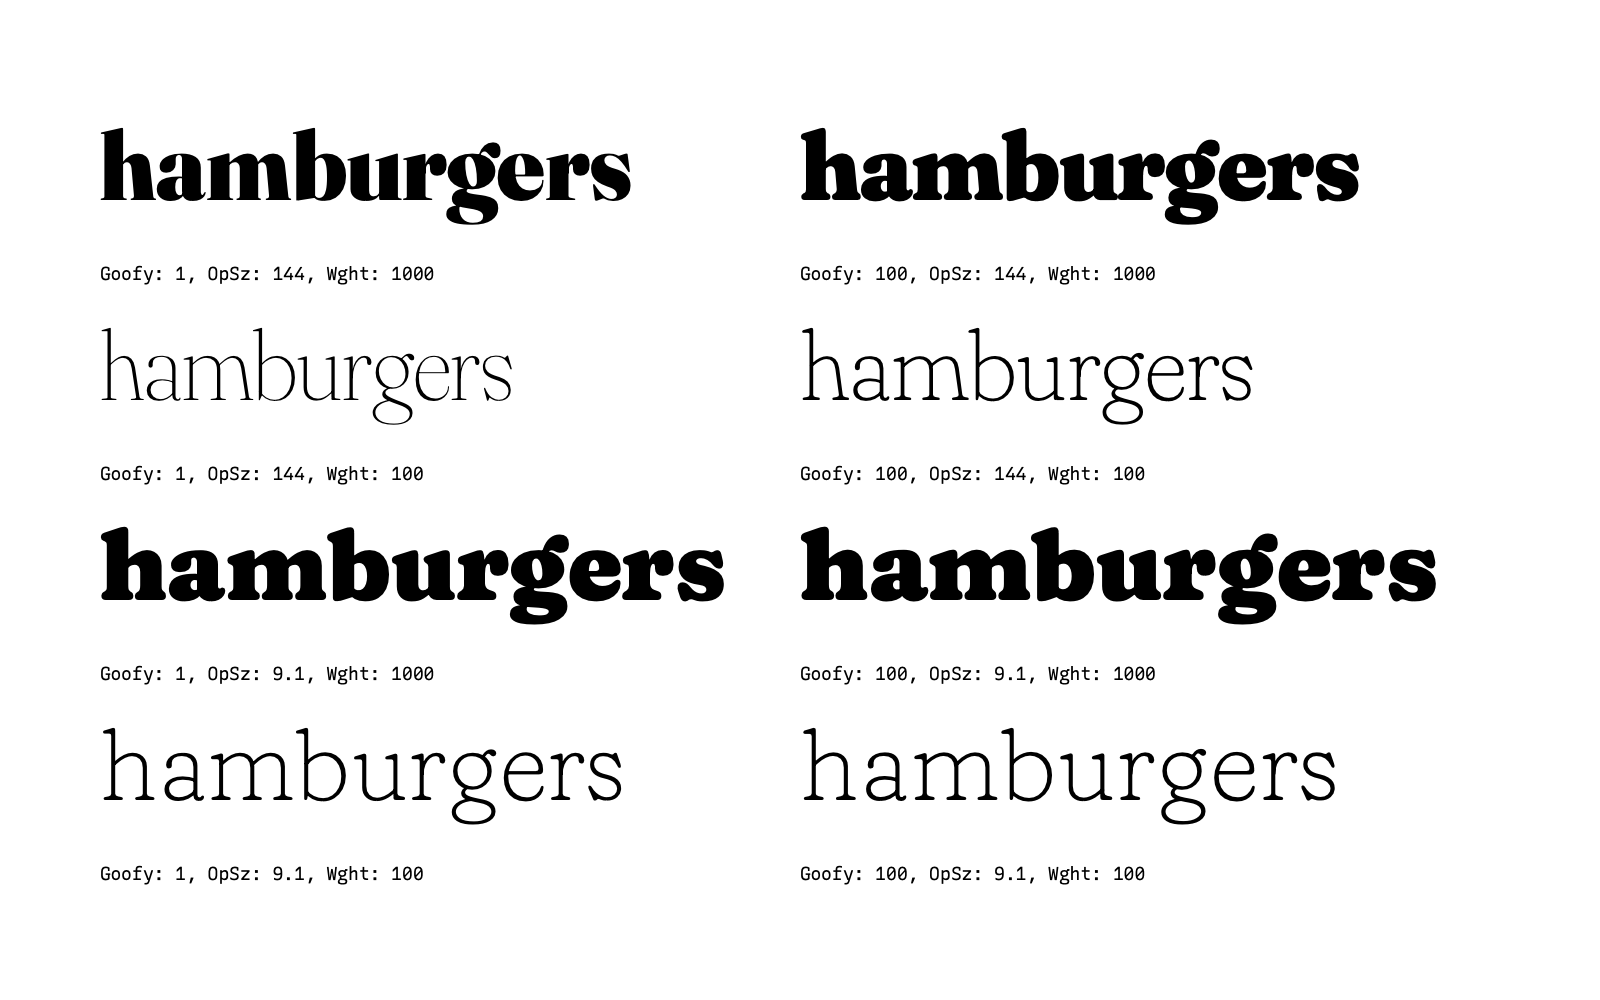
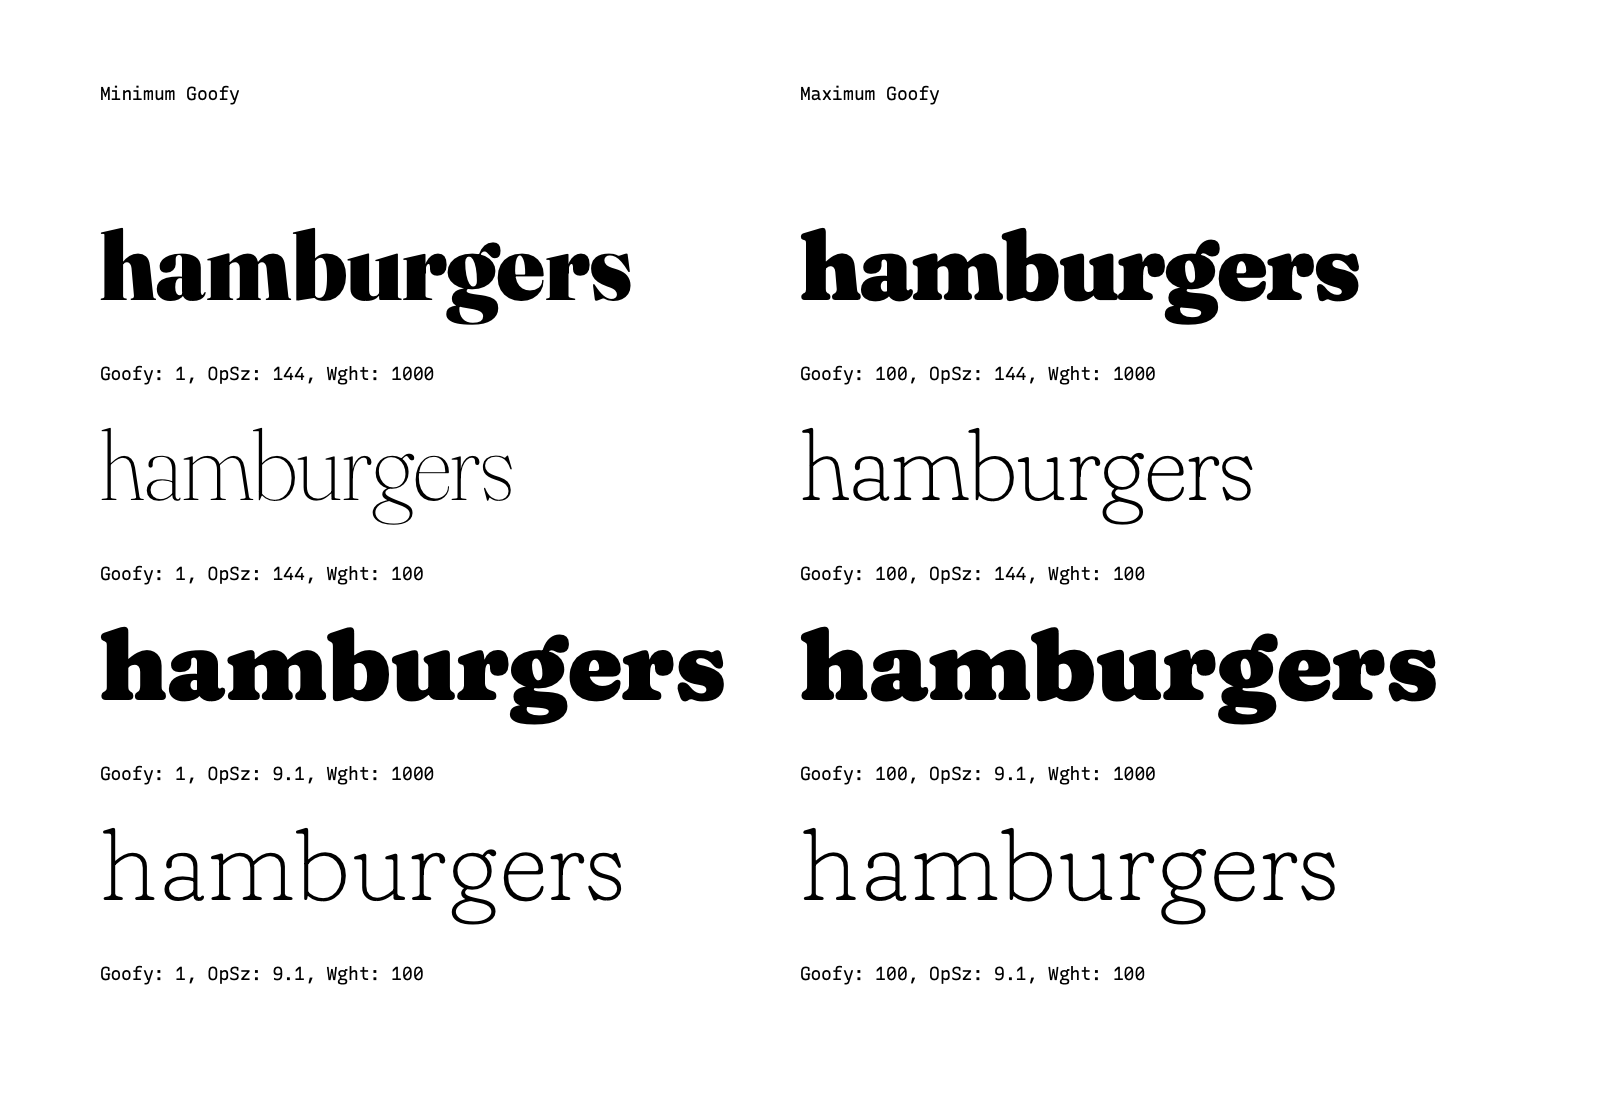
generated new gifs

diff --git a/documentation/proofs/080819/goofy_extremes.py b/documentation/proofs/080819/goofy_extremes.py
@@ -1,22 +1,25 @@
-newPage(1600,1000)
+newPage(1600,1100)
 fill(1,1,1)
 rect(0,0,width(),height())
 fill(0,0,0)
 
 def drawText(goofyval, opSz, Wght, horiz, vert):
-    font("Fraunces", 100)
+    font("Fraunces Italic", 100)
     fontVariations(opsz = opSz, goof = goofyval, wght = Wght)
     text("hamburgers", (horiz, vert))
     font("Recur Mono", 18)
     text("Goofy: %s, OpSz: %s, Wght: %s" % (goofyval, opSz, Wght), (horiz, vert-80))
 
-drawText(1,144,1000,50*2,height()-200)
-drawText(100,144,1000,400*2,height()-200)
-drawText(1,144,100,50*2,height()-400)
-drawText(100,144,100,400*2,height()-400)
-drawText(1,9.1,1000,50*2,height()-600)
-drawText(100,9.1,1000,400*2,height()-600)
-drawText(1,9.1,100,50*2,height()-800)
-drawText(100,9.1,100,400*2,height()-800)
+drawText(1,144,1000,50*2,height()-300)
+drawText(100,144,1000,400*2,height()-300)
+drawText(1,144,100,50*2,height()-500)
+drawText(100,144,100,400*2,height()-500)
+drawText(1,9.1,1000,50*2,height()-700)
+drawText(100,9.1,1000,400*2,height()-700)
+drawText(1,9.1,100,50*2,height()-900)
+drawText(100,9.1,100,400*2,height()-900)
 
-saveImage("goofyDeltas.png")
+text("Minimum Goofy", (50*2,height()-100))
+text("Maximum Goofy", (400*2,height()-100))
+
+saveImage("goofyDeltas_italic.png")

diff --git a/documentation/proofs/080819/rules_comparisons.py b/documentation/proofs/080819/rules_comparisons.py
@@ -3,21 +3,21 @@ textstuff = open(textHamburgerfontsiv, 'r', encoding="utf-8")
 textsample = textstuff.read()
 textstuff.close()
 
-newPage(1000,500)
+newPage(1000*2,500*2)
 fill(1,1,1)
 rect(0,0,width(),height())
 fill(0,0,0)
 
-font("Fraunces", 18)
-fontVariations(opsz = 13, goof = 50, wght = 400)
+font("Fraunces", 48)
+fontVariations(opsz = 48, goof = 50, wght = 400)
 textBox(textsample, (50,75,width()/2-100,height()-125))
-font("Recur Mono", 10)
-text("OpSz > 18", (50,50))
+font("Recur Mono", 18)
+text("OpSz > 48", (50,50))
 
 font("Fraunces", 18)
 fontVariations(opsz = 12, goof = 50, wght = 400)
-textBox(textsample, (100+width()/2-100,75,width()/2-100,height()-125))
-font("Recur Mono", 10)
+textBox(textsample*10, (100+width()/2-100,75,width()/2-100,height()-125))
+font("Recur Mono", 18)
 text("OpSz < 18", (100+width()/2-100,50))
 
 saveImage("rules_comparisons.png")
